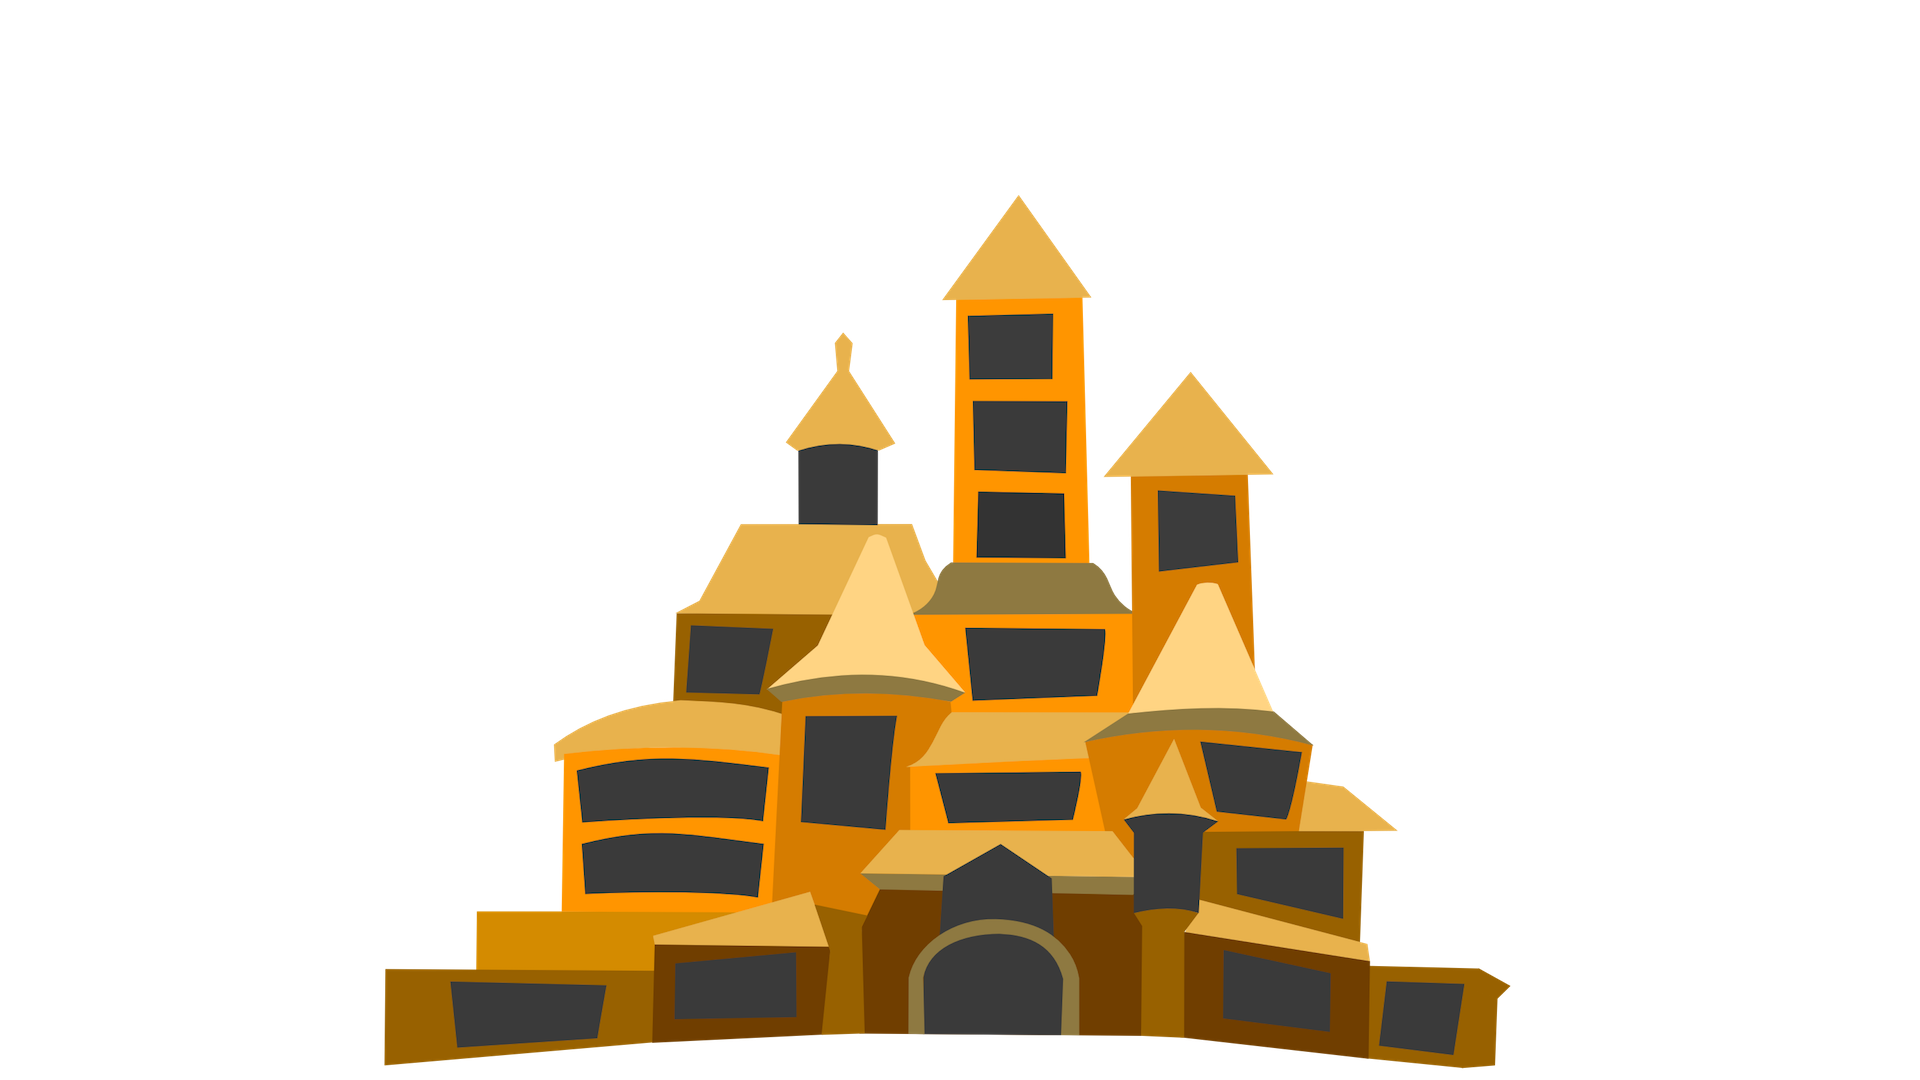
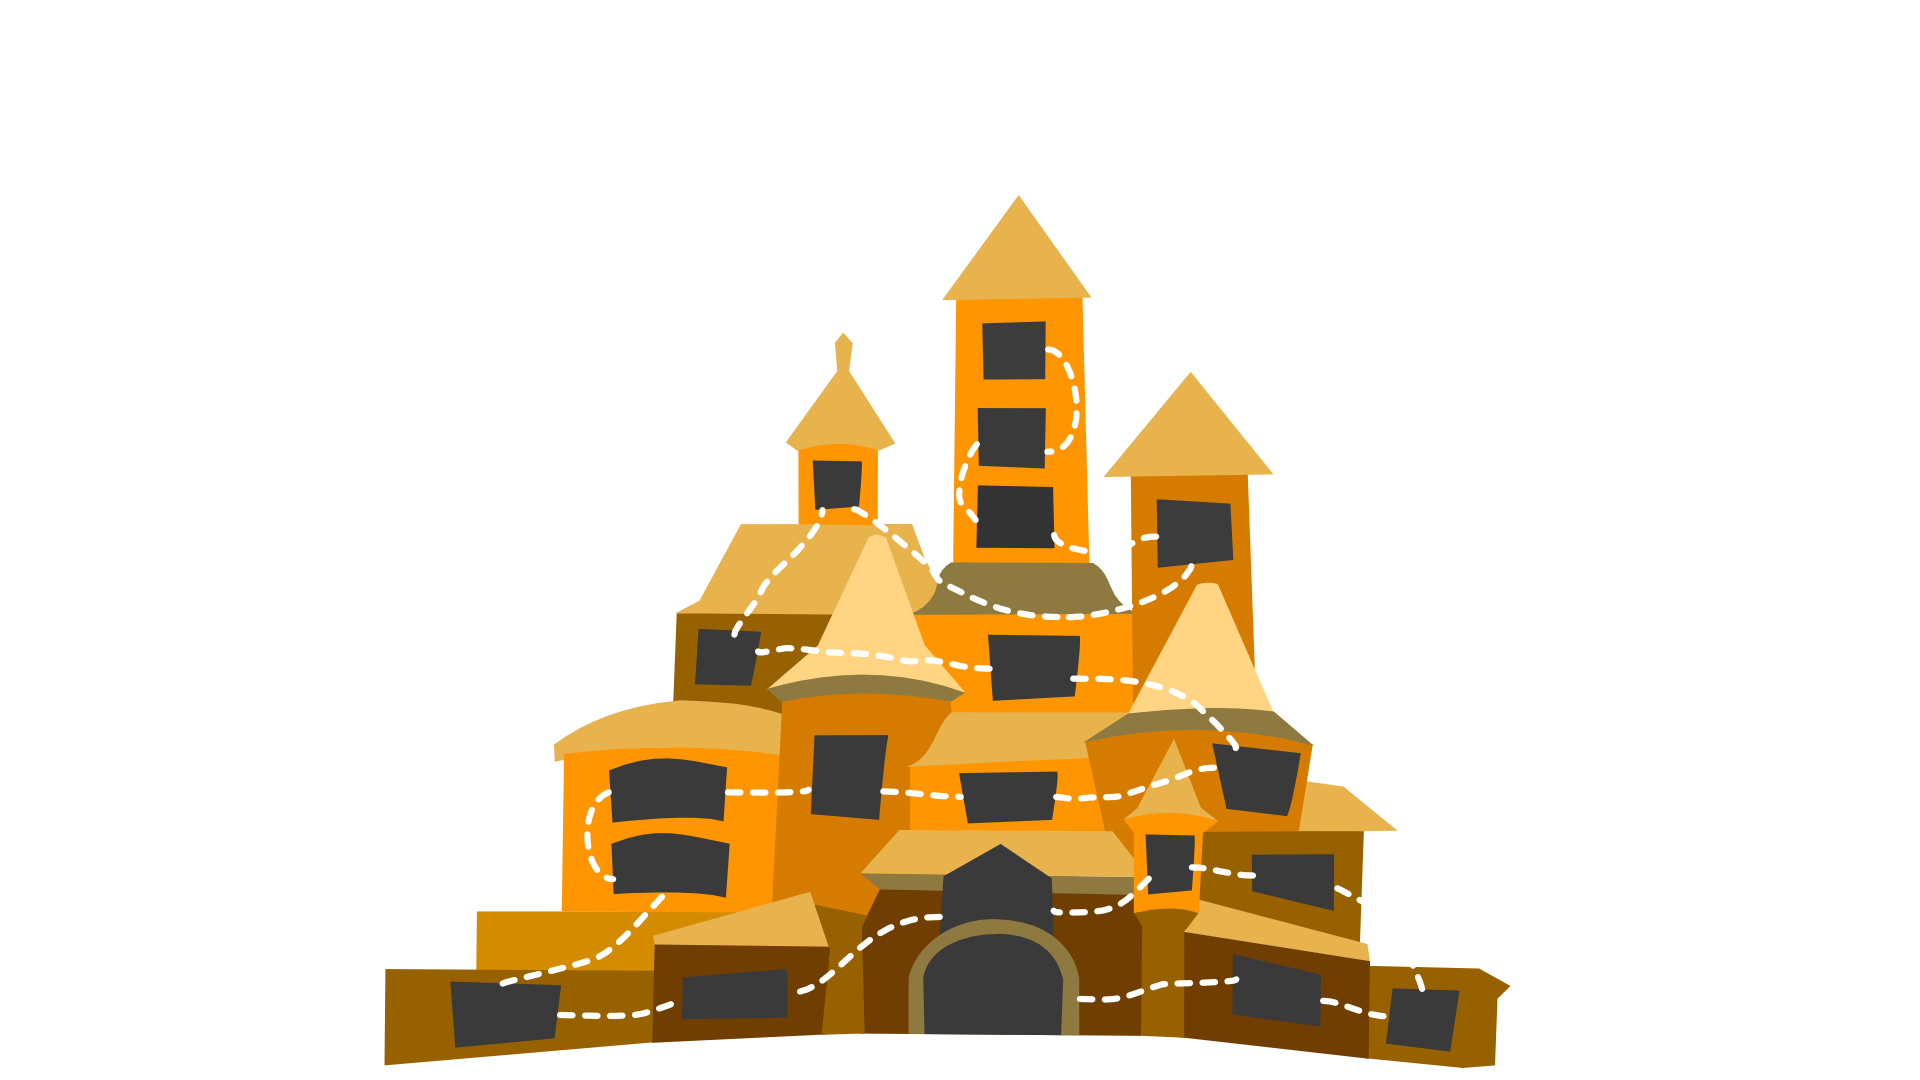
transition menu

diff --git a/Aiden/core/src/edu/cornell/gdiac/physics/AidenController.java b/Aiden/core/src/edu/cornell/gdiac/physics/AidenController.java
@@ -17,6 +17,7 @@ import com.badlogic.gdx.Gdx;
 import com.badlogic.gdx.Input;
 import com.badlogic.gdx.audio.Sound;
 import com.badlogic.gdx.graphics.*;
+import com.badlogic.gdx.graphics.Texture.TextureFilter;
 import com.badlogic.gdx.graphics.g2d.*;
 import com.badlogic.gdx.physics.box2d.*;
 
@@ -189,6 +190,22 @@ implements ContactListener {
 	 */
 	public int level = 0;
 
+	private Vector2 resuScreen_trans;
+
+	private Vector2 resuPos_trans;
+
+	private Vector2 restScreen_trans;
+
+	private Vector2 restPos_trans;
+
+	private Vector2 homeScreen_trans;
+
+	private Vector2 homePos_trans;
+
+	private Vector2 mScreen_trans;
+
+	private Vector2 muPos_trans;
+
 	/** Sets asset file */
 	public void setAssetFile(AssetFile a) {
 		this.af = a;
@@ -251,6 +268,7 @@ implements ContactListener {
 			af.bgm.play();
 			wasPlaying = true;
 		}
+		populate_map();
 	}
 
 	public void resetPos(){
@@ -506,10 +524,20 @@ implements ContactListener {
 		winPos = new Vector2(w / 2 - winSize.x / 2, h);
 		losePos = new Vector2(w / 2 - loseSize.x / 2, h);
 		pPos = new Vector2(w / 2 - tOff, 9 * h);
+		
+		resuScreen_trans = new Vector2(3 * w / 4 - mOff, h - yOff);
+		resuPos_trans = new Vector2(3* w / 4 - mOff, h - yOff);
+		restScreen_trans = new Vector2(3* w / 4 - mOff, h - 2 * yOff);
+		restPos_trans = new Vector2(3 * w/ 4 - mOff, h - 2 * yOff);
+		homeScreen_trans = new Vector2(3 * w / 4 - mOff, h - 3 * yOff);
+		homePos_trans = new Vector2(3 * w / 4 - mOff, h - 3 * yOff);
+		mScreen_trans = new Vector2(3* w / 4 - xsOff, h - 4 * yOff);
+		muPos_trans = new Vector2(3 * w / 4 - xsOff, h - 4 * yOff);
+		
 		resuScreen = new Vector2(w / 2 - mOff, h - yOff);
 		resuPos = new Vector2(w / 2 - mOff, h - yOff);
 		restScreen = new Vector2(w / 2 - mOff, h - 2 * yOff);
-		restPos = new Vector2(w / 2 - mOff, h - 2 * yOff);
+		restPos = new Vector2(w/ 2 - mOff, h - 2 * yOff);
 		homeScreen = new Vector2(w / 2 - mOff, h - 3 * yOff);
 		homePos = new Vector2(w / 2 - mOff, h - 3 * yOff);
 		mScreen = new Vector2(w / 2 - xsOff, h - 4 * yOff);
@@ -986,10 +1014,57 @@ implements ContactListener {
 
 	//---------------------------------confetti-------------------------------//
 	public ParticleEffect confeti;
-
-
-
+	
+	
 	//-------------------------------------------------------------------------//
+
+
+	//--------------------------Transition------------------------------------//
+	private int circle_rot;
+
+	private float[] light_alpha;
+
+	private float[] light_radius;
+
+	private float[] selectorPos;
+	private void populate_map(){
+		selectorPos=new float[]{
+				995, 989,
+				1275, 993,
+				1419, 1017,
+				1292, 878,
+				1167, 864,
+				997, 890,
+				734, 989,
+				525, 1011,
+				669, 862,
+				675, 789,
+				846, 774,
+				1010, 796,
+				1254, 780,
+				1036, 662,
+				725, 660,
+				837, 486,
+				1200, 530,
+				1020, 525,
+				1023, 437,
+				1011, 346
+		};
+		for (int i=0; i<selectorPos.length/2; i++){
+			//selectorPos[2*i]*=scale.x;
+			selectorPos[2*i+1]=(1920-selectorPos[2*i+1])/**scale.y*/;		
+		}
+		light_radius=new float[selectorPos.length/2];
+		light_alpha=new float[selectorPos.length/2];
+		for (int i=0; i<light_radius.length; i++){
+			light_radius[i] = scale.x;
+		}
+		for (int i=0; i<light_alpha.length; i++){
+			light_alpha[i]=1f;
+		}
+		circle_rot = 0;
+	}
+	//------------------------------------------------------------------------//
 	@Override
 	public void draw(float delta) {
 		canvas.clear();
@@ -1120,19 +1195,70 @@ implements ContactListener {
 							largeBut.x * zoom, largeBut.y * zoom);
 				}
 			} else {
+				// Draw transition map begin
+				canvas.draw(af.level_background, 
+						new Color(0.1f+((float)this.level)*0.9f/20f, 
+								0.2f+((float)this.level)*0.8f/20f, 0.7f, 1f), 
+						pos1.x, pos1.y,
+						1920 * sScaleX * zoom, 1080 * sScaleY * zoom);
+				Vector2 castleRawPos=new Vector2(canvas.getWidth()/3f, 
+						canvas.getHeight()/2);
+				Vector2 castlePos=canvas.relativeVector(castleRawPos.x,castleRawPos.y);
+				canvas.draw(af.castle, Color.WHITE, af.castle.getRegionWidth()/2, 
+						af.castle.getRegionHeight()/2, 
+						castlePos.x, castlePos.y, 0, sScaleX*zoom,sScaleX*zoom);
+				float castleRegionWidth=af.castle.getRegionWidth();
+				float castleRegionHeight=af.castle.getRegionHeight();
+				for (int i = 0; i < selectorPos.length/2; i++){
+					Vector2 pos = canvas.relativeVector(
+							(selectorPos[2*i]-castleRegionWidth/2f)*sScaleX*zoom + castleRawPos.x, 
+							(selectorPos[2*i+1]-castleRegionHeight/2f)*sScaleX*zoom + castleRawPos.y);
+					System.out.println(castlePos);
+					String level_addr = "shared/numbers/" + (i+1) + ".png";
+					Texture level_texture = new Texture(level_addr);
+					level_texture.setFilter(TextureFilter.Linear,
+							TextureFilter.Linear);
+					Color c=Color.GRAY;
+//					if (i<gs.getUnlocked()) {
+//						c=Color.WHITE;
+//						if (RandomController.rollFloat(0, 1)>0.85f){
+//							light_radius[i]=Math.max(scale.x*2f,Math.min(scale.x / 2f, 
+//									light_radius[i]+RandomController.rollFloat(-0.02f, 0.02f)));
+//							//light_alpha[i]=Math.max(0.5f, Math.min(1, light_alpha[i]+RandomController.rollFloat(-0.025f, 0.025f)));
+//						}
+//						canvas.draw(af.light, new Color(1, 1, 0.2f, light_alpha[i]), af.light.getRegionWidth()/2f,
+//								af.light.getRegionHeight() / 2f,
+//								pos.x, pos.y,
+//								0, light_radius[i],
+//								light_radius[i]);
+//					}
+//					else if (i==gs.getUnlocked()){
+//						c=Color.WHITE;
+//						canvas.draw(af.circle, new Color(1, 1, 0.2f, 1), af.circle.getRegionWidth()/2f,
+//								af.circle.getRegionHeight() / 2f,
+//								pos.x, pos.y,
+//								circle_rot, 0.2f, 0.2f);
+//					}
+					canvas.draw(level_texture, c, level_texture.getWidth() / 2f,
+								level_texture.getHeight() / 2f,
+								pos.x, pos.y,
+								0, 1, 1);
+				}
+				// Draw transition map end
+				
 				posTemp = canvas.relativeVector(winPos.x, winPos.y);
 				canvas.draw(af.youWin, Color.WHITE, posTemp.x, posTemp.y,
 						winSize.x * zoom, winSize.y * zoom);
 				// nextlevel
-				posTemp = canvas.relativeVector(resuScreen.x, resuScreen.y);
+				posTemp = canvas.relativeVector(resuScreen_trans.x, resuScreen_trans.y);
 				canvas.draw(af.nextLevel, resuC, posTemp.x, posTemp.y,
 						largeBut.x * zoom, largeBut.y * zoom);
 				// replay
-				posTemp = canvas.relativeVector(restScreen.x, restScreen.y);
+				posTemp = canvas.relativeVector(restScreen_trans.x, restScreen_trans.y);
 				canvas.draw(af.replay, restC, posTemp.x, posTemp.y,
 						largeBut.x * zoom, largeBut.y * zoom);
 				// home
-				posTemp = canvas.relativeVector(homeScreen.x, homeScreen.y);
+				posTemp = canvas.relativeVector(homeScreen_trans.x, homeScreen_trans.y);
 				canvas.draw(af.levelSelect, homeC, posTemp.x, posTemp.y,
 						largeBut.x * zoom, largeBut.y * zoom);
 			}
@@ -1308,6 +1434,5 @@ implements ContactListener {
 		}
 
 	}
-
 }
 

diff --git a/Aiden/core/src/edu/cornell/gdiac/physics/LoadingMode.java b/Aiden/core/src/edu/cornell/gdiac/physics/LoadingMode.java
@@ -386,7 +386,7 @@ public class LoadingMode implements Screen, InputProcessor, ControllerListener {
 				
 			}
 		}
-		this.circle_rot+=10*delta;
+		this.circle_rot+=6*delta;
 		circle_rot%=(2*Math.PI);
 	}
 	// TODO: POPULATE
@@ -440,7 +440,7 @@ public class LoadingMode implements Screen, InputProcessor, ControllerListener {
 			light_radius[i]=LEVEL_BUTTON_SCALE * scale / 4f;
 		}
 		for (int i=0; i<light_alpha.length; i++){
-			light_alpha[i]=.8f;
+			light_alpha[i]=1f;
 		}
 		circle_rot = 0;
 	}
@@ -494,7 +494,8 @@ public class LoadingMode implements Screen, InputProcessor, ControllerListener {
 					BUTTON_SCALE * scale);
 		}
 		else if (pressState >= 4 && pressState < 7 ){
-			canvas.draw(level_background, new Color(0.1f, 0.2f, 0.7f, 1f), 0, 0, STANDARD_WIDTH, STANDARD_HEIGHT);
+			canvas.draw(level_background, new Color(0.1f, 0.2f, 0.7f, 1f), 
+					0, 0, (float) canvas.getWidth(), (float) canvas.getHeight());
 			canvas.draw(castle, Color.WHITE, 0, 0, 0, 0, 0, scale, scale);
 			pos = canvas.relativeVector(canvas.getWidth()/2, canvas.getHeight()*4.5f/5);
 			canvas.draw(select, Color.WHITE, select.getWidth()/2, select.getHeight()/2,
@@ -516,7 +517,7 @@ public class LoadingMode implements Screen, InputProcessor, ControllerListener {
 					if (RandomController.rollFloat(0, 1)>0.85f){
 						light_radius[i]=Math.max(LEVEL_BUTTON_SCALE * scale / 5f,Math.min(LEVEL_BUTTON_SCALE * scale / 3f, 
 								light_radius[i]+RandomController.rollFloat(-0.02f, 0.02f)));
-						light_alpha[i]=Math.max(0.5f, Math.min(1, light_alpha[i]+RandomController.rollFloat(-0.025f, 0.025f)));
+						//light_alpha[i]=Math.max(0.5f, Math.min(1, light_alpha[i]+RandomController.rollFloat(-0.025f, 0.025f)));
 					}
 					canvas.draw(light, new Color(1, 1, 0.2f, light_alpha[i]), light.getWidth()/2f,
 							light.getHeight() / 2f,
@@ -526,7 +527,7 @@ public class LoadingMode implements Screen, InputProcessor, ControllerListener {
 				}
 				else if (i==gs.getUnlocked()){
 					c=Color.WHITE;
-					canvas.draw(circle, Color.WHITE, circle.getWidth()/2f,
+					canvas.draw(circle, new Color(1, 1, 0.2f, 1), circle.getWidth()/2f,
 							circle.getHeight() / 2f,
 							pos.x, pos.y,
 							circle_rot, 0.2f, 0.2f);

diff --git a/Aiden/core/src/edu/cornell/gdiac/physics/scene/AssetFile.java b/Aiden/core/src/edu/cornell/gdiac/physics/scene/AssetFile.java
@@ -86,6 +86,9 @@ public class AssetFile {
 	public TextureRegion music_no;
 	public TextureRegion sound_no;
 	public TextureRegion water;
+	public TextureRegion castle;
+	public TextureRegion light;
+	public TextureRegion circle;
 	
 	/** Texture for aiden animation */
 	public FilmStrip AidenGlow;
@@ -107,6 +110,7 @@ public class AssetFile {
 	public TextureRegion checkpointTexture;
 	
 	public TextureRegion[] tutorialInstructions;
+	public TextureRegion level_background;
 
 	public AssetFile() {
 		this.files = new HashMap<String, String>();
@@ -183,6 +187,10 @@ public class AssetFile {
 		files.put("TUT3_BACK", "background/tutorial3.png");
 		files.put("LEVEL_S", "shared/levels.png");
 		files.put("RESTART_ICON", "shared/restart icon.png");
+		files.put("CASTLE", "shared/castle.png");
+		files.put("LIGHT", "shared/gradient.png");
+		files.put("CIRCLE", "shared/circle.png");
+		files.put("LEVEL_BACKGROUND", "background/background2.png");
 		
 		files.put("1", "shared/1.png");
 		files.put("2", "shared/1.png");
@@ -352,6 +360,10 @@ public class AssetFile {
 		trapdoorTexture = createTexture(manager, files.get("TRAPDOOR_FILE"), false);
 		nailTexture = createTexture(manager, files.get("NAIL_FILE"), false);
 		checkpointTexture=createTexture(manager, files.get("CHECKPOINT_FLAG"), false);
+		castle=createTexture(manager, files.get("CASTLE"), false);
+		light=createTexture(manager, files.get("LIGHT"), false);
+		circle=createTexture(manager, files.get("CIRCLE"), false);
+		level_background = createTexture(manager, files.get("LEVEL_BACKGROUND"), false);
 		
 		
 		AidenSpiritTexture = createFilmStrip(manager, files.get("AIDEN_SPIRIT"), 5, 1, 5);

diff --git a/Aiden/core/src/edu/cornell/gdiac/physics/GDXRoot.java b/Aiden/core/src/edu/cornell/gdiac/physics/GDXRoot.java
@@ -298,6 +298,15 @@ public class GDXRoot extends Game implements ScreenListener {
 		manager.load(af.get("CHECKPOINT_FLAG"), Texture.class);
 		assets.add(af.get("CHECKPOINT_FLAG"));
 		
+		manager.load(af.get("CASTLE"), Texture.class);
+		assets.add(af.get("CASTLE"));
+		manager.load(af.get("LIGHT"), Texture.class);
+		assets.add(af.get("LIGHT"));
+		manager.load(af.get("CIRCLE"), Texture.class);
+		assets.add(af.get("CIRCLE"));
+		manager.load(af.get("LEVEL_BACKGROUND"), Texture.class);
+		assets.add(af.get("LEVEL_BACKGROUND"));
+		
 		for (int i=0; i<4; i++){
 			manager.load(af.get("TUTORIAL_INST"+i), Texture.class);
 			assets.add(af.get("TUTORIAL_INST"+i));

diff --git a/Aiden/core/src/edu/cornell/gdiac/physics/TutorialController.java b/Aiden/core/src/edu/cornell/gdiac/physics/TutorialController.java
@@ -171,23 +171,6 @@ class TutorialController extends AidenController{
 		return this.currentMsg;
 	}
 
-	public void display(String s, float x, float y){
-
-	}
-
-	/** pop window when aiden is at a place **/
-	public void popWindowAt(String s, TextureRegion texture, float x, float y){
-
-	}
-
-	/** pop window when fuel is lower than some amounr **/
-	public void popWindowFuel(String s, TextureRegion texture, float fuel){
-
-	}
-
-	private void popWindow(String s, TextureRegion texture){
-		canvas.draw(af.avatarTexture, 1, 1);
-	}
 }
 
 abstract class Message{
